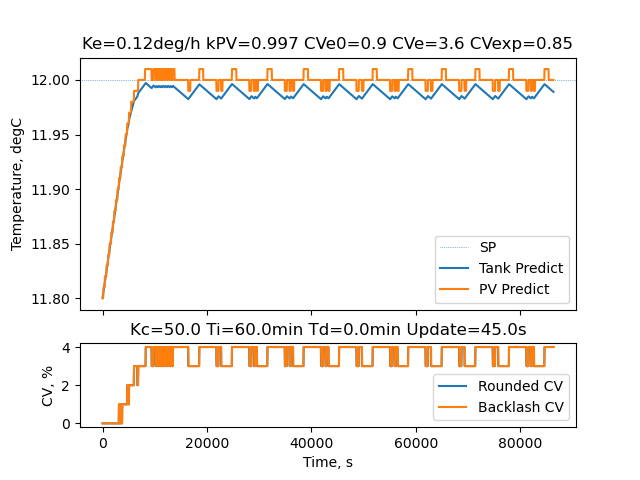
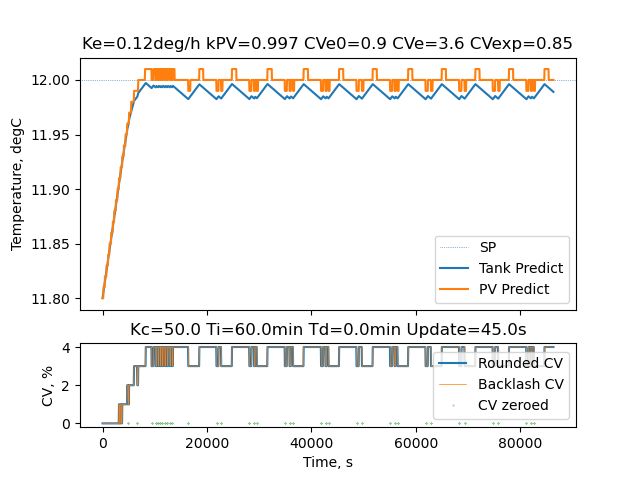
Improved plots; add backlash to XLSX reader; update readme and images
pv_predict.py

- Made .plot_data method more general, to make it easier to
  plot actual process model vs. PID-control modeled data
- Added plotting of zeroed CVs
- Added command-line option to model backlash fix

read_interleaved_XLSX.py

- Added command-line option to output valve position data with backlash
  - Used to hand data with valve backlash to @Peter Nachtwey's Smith Predictor
- Removed obsolete, unused code

README.md

- updated for new images
- updated text

anti_backlash_pid_050_060_000.png
backlash_model_data_20210228.png
backlash_model_data_20210307.png
backlash_model_pid_20210307.png
backlash_model_pid_20210228.png

- Replaced/renamed images

Changed region(s): [[0.1875, 0.7188, 0.9062, 0.9062], [0.1562, 0.875, 0.1875, 0.9062]]

diff --git a/read_interleaved_XLSX.py b/read_interleaved_XLSX.py
@@ -19,7 +19,7 @@ import sys
 import numpy as np
 import pandas as pd
 
-def read_XLSX(path,zero_to_20=False):
+def read_XLSX(path,zero_to_20=False,decreasing_backlash=False):
   """
   Reads the eXcel file designated by path
   The data must be in the second worksheet (sheet_name==1)
@@ -54,6 +54,14 @@ def read_XLSX(path,zero_to_20=False):
   aTimes = aTimes.flatten()
   CVs = rawarr[iw_cv,1].flatten()
   PVs = np.round(rawarr[iw_pv,1].flatten(),3)
+  ### Model backlash
+  L = len(CVs)
+  lastCV = -1e32
+  if decreasing_backlash:
+    ### Ensure CV never decreases unless new value is 0
+    for i in range(L):
+      if CVs[i] > lastCV or CVs[i] == 0.0: lastCV = CVs[i]
+      elif CVs[i] < lastCV               : CVs[i] = lastCV
   ### Check if --zero-to-20 fix is needed
   if zero_to_20:
     ### Control valve is opened from 0% to 7ma out of 4-20ma i.e. 3/16
@@ -67,15 +75,13 @@ def read_XLSX(path,zero_to_20=False):
   return aTimes[iw],CVs[iw],PVs[iw]
 
 ########################################################################
-def massage_XLSX(path,zero_to_20=False):
+def massage_XLSX(path,zero_to_20=False,decreasing_backlash=False):
   """
   Read data using read_XLSX above; remove PVs of zero; merge sections of
   contiguous duplicate data
 
   """
-  aTimes,CVs,PVs = triple= read_XLSX(path,zero_to_20=zero_to_20)
-  iw = np.where(PVs>0.0)
-  sumt = [0.0]*3
+  aTimes,CVs,PVs = triple= read_XLSX(path,zero_to_20=zero_to_20,decreasing_backlash=decreasing_backlash)
   lastPV,lastCV,firsti,n = -1e32,-1e32,0,0
   for i in range(len(aTimes)):
 
@@ -108,19 +114,21 @@ if "__main__" == __name__:
   The path must point to the file you want to read.
 
   Usage:  python read_interleaved_XLSX.py
-          python read_interleaved_XLSX.py ['Tank_20_Results_Feb_11-12_2021_R1.xlsx'] [--convert-to-tsv[ > Tank_data.txt]]
-          python read_interleaved_XLSX.py 'Tank....xlsx' [--convert-to-tsv --massage-tank-data[ > Tank_data_massage.txt]]
+          python read_interleaved_XLSX.py [Tank_20_Results_Feb_11-12_2021_R1.xlsx] [--convert-to-tsv[ > Tank_data.txt]]
+          python read_interleaved_XLSX.py Tank....xlsx [--massage-tank-data[ --convert-to-tsv  > Tank_data_massage.txt]]
+          python read_interleaved_XLSX.py Tank....xlsx [--decreasing-backlash[ --convert-to-tsv > Tank_data_dbacklash.txt]]
 
           N.B. [...] means ... is optional argument(s)
   """
   path = ([s for s in sys.argv[1:] if not s.startswith('--')] + ['Tank_20_Results_Feb_11-12_2021_R1.xlsx'])[0]
   zero_to_20 = '--zero-to-20' in sys.argv[1:]
+  decreasing_backlash = '--decreasing-backlash' in sys.argv[1:]
 
   if '--massage-tank-data' in sys.argv[1:]:
-    aTimes,CVs,PVs = massage_XLSX(path,zero_to_20=zero_to_20)
+    aTimes,CVs,PVs = massage_XLSX(path,zero_to_20=zero_to_20,decreasing_backlash=decreasing_backlash)
     sys.stderr.write('Method [massage_XLSX] successfully massaged {1} data from file [{0}]\n'.format(path,len(aTimes)))
   else:
-    aTimes,CVs,PVs = read_XLSX(path,zero_to_20=zero_to_20)
+    aTimes,CVs,PVs = read_XLSX(path,zero_to_20=zero_to_20,decreasing_backlash=decreasing_backlash)
     sys.stderr.write('Method [read_XLSX] successfully read {1} data from file [{0}]\n'.format(path,len(aTimes)))
 
   if '--convert-to-tsv' in sys.argv[1:]:

diff --git a/pv_predict.py b/pv_predict.py
@@ -183,7 +183,6 @@ Model
     #else:
     #  cvplt.plot(ATs,CVs,linewidth=0.5)
 
-  def plot_datax(self,ATs,CVs,PVs,Tts,title,cvtitle=None):pass
   def plot_data(self,*args):
     import matplotlib.pyplot as plt
 
@@ -199,12 +198,18 @@ Model
     cvplt.set_xlabel('Time, s')
 
     for ats,whichplot,xvtitle,xvpairs in args:
-      xvplt = 'CV' == whichplot and cvplt or pvplt
+      xvplt = whichplot.startswith('CV') and cvplt or pvplt
+      markerline = whichplot.endswith('dots') and '.' or '-'
       if isinstance(xvtitle,str): xvplt.set_title(xvtitle)
       for xvs,xvlegend in xvpairs:
         sys.stdout.flush()
-        xvplt.plot(ats,xvs,label=xvlegend)
-      xvplt.legend(loc='best')
+        xvplt.plot(ats,xvs
+                  ,markerline
+                  ,label=xvlegend
+                  ,linewidth='Backlash CV' == xvlegend and 0.5 or None
+                  ,markersize=0.5
+                  )
+      xvplt.legend(loc=xvplt is cvplt and 'center right' or 'best')
 
     #if None is CVs:
     #  pvplt.plot(self.ats,self.pvs,label='PV Data')
@@ -234,6 +239,8 @@ Model
                     ,Deadband=self.pid_deadband
                     )
 
+    zeroCV_ATs = list()
+
     while True:
       rPV = round(xPV,2)
 
@@ -256,11 +263,13 @@ Model
         if inext >= L: break
         nextPIDAT = AT + self.pid_updatetime
 
-        blrem = backlash and 3 or 0
+        blrem = ('fix-backlash' in keywords) and backlash and 3 or 0
 
       if blrem > 0:
         blrem -= 1
-        if blrem: blCV,rCVtmp,xCVtmp,CVscalar,backlashtmp = self.xCV_to_CV(0.0,0.0)
+        if blrem:
+          blCV,rCVtmp,xCVtmp,CVscalar,backlashtmp = self.xCV_to_CV(0.0,0.0)
+          zeroCV_ATs.append(AT)
         else    : blCV,rCVtmp,xCVtmp,CVscalar,backlashtmp = self.xCV_to_CV(xCV,blCV)
 
       AT,xTt,xPV = self.model_one_timestep(AT,xTt,xPV,CVscalar)
@@ -287,6 +296,9 @@ Model
                     ,(ATs,'PV',pvtitle,((xTts,'Tank Predict',)
                                        ,(rPVs,'PV Predict',)
                                        ,)
+                     ,)
+                    ,(zeroCV_ATs,'CVdots',None,(([0.0]*len(zeroCV_ATs),'CV zeroed',)
+                                              ,)
                      ,)
                     )
 

diff --git a/README.md b/README.md
@@ -1,36 +1,39 @@
 # PLC_chill_tank_PID
 Modeling for tuning process described in PLC talk forum thread cf. https://www.plctalk.net/qanda/showthread.php?t=128251
 
-* Backlash modeled as actual valve position never decreasing unless whole-percentage-rounded, post-processed PID CV output position is 0% (valve closed)
+* CV-to-control valve position backlash modeled as actual valve position never decreasing unless whole-percentage-rounded, post-processed PID CV output position is 0% (valve closed; 4ma)
 
-Model with tuned PID, per @Mispeld, with anti-backlash
+Model with tuned PID, per @Mispeld, and backlash model with anti-backlash action for modeled valve position
 ====
 * Kc = 50
 * Ti = 60
 * Td = 0
 * Update time = 45s
-* Anti-backlash post-processing sends 0% signal (closing valve) for 2s for any decrease in whole-percentage-rounded PID CV output position
-* Anti-backlash movement not shown in lower [CV, %] plot
+* Anti-backlash post-processes PID CV by sending 0% signal (closing valve) for 2s for any decrease in whole-percentage-rounded PID CV output position
+* Anti-backlash events (i.e. valve position signal 0%=4ma when PID CV is 1% or more) are shown as green dots in lower plot [CV, %]
+* The point of these plots is that the @Mispeld's tuning parameters work well for this model if measures are taken to counteract valve position backlash when decreasing the PID CV signal
 
 ![](https://github.com/drbitboy/PLC_chill_tank_PID/raw/master/images/anti_backlash_pid_050_060_000.png)
 
-Model with PID tuned as in actual results, with backlash
+Model with modeled PID tuned as in actual results, with backlash model
 ====
 * Kc = 5 (too small)
 * Ti = 8 (too small)
 * Td = 1.5 (not needed)
 * Update time = 45s
+* The point of these plots is that the process plus PID models represent the actual process with PID control reasonably well, assuming backlash is present
 
-![](https://github.com/drbitboy/PLC_chill_tank_PID/raw/master/images/backlash_model_pid_20210228.png)
+![](https://github.com/drbitboy/PLC_chill_tank_PID/raw/master/images/backlash_model_pid_20210307.png)
 
-Actual data, with PID tuned for cycling, with CV-to-valve backlash
+Actual data, including actual PID CV output data, with backlash model for modeled valve position, but PID control is not modeled
 ====
 * Kc = 5 (too small)
 * Ti = 8 (too small)
 * Td = 1.5 (not needed)
 * Update time = 45s
+* The point of these plots is that the process model represents the actual process reasonably well, assuming backlash is present
 
-![](https://github.com/drbitboy/PLC_chill_tank_PID/raw/master/images/backlash_model_data_20210228.png)
+![](https://github.com/drbitboy/PLC_chill_tank_PID/raw/master/images/backlash_model_data_20210307.png)
 
 Model
 ====
